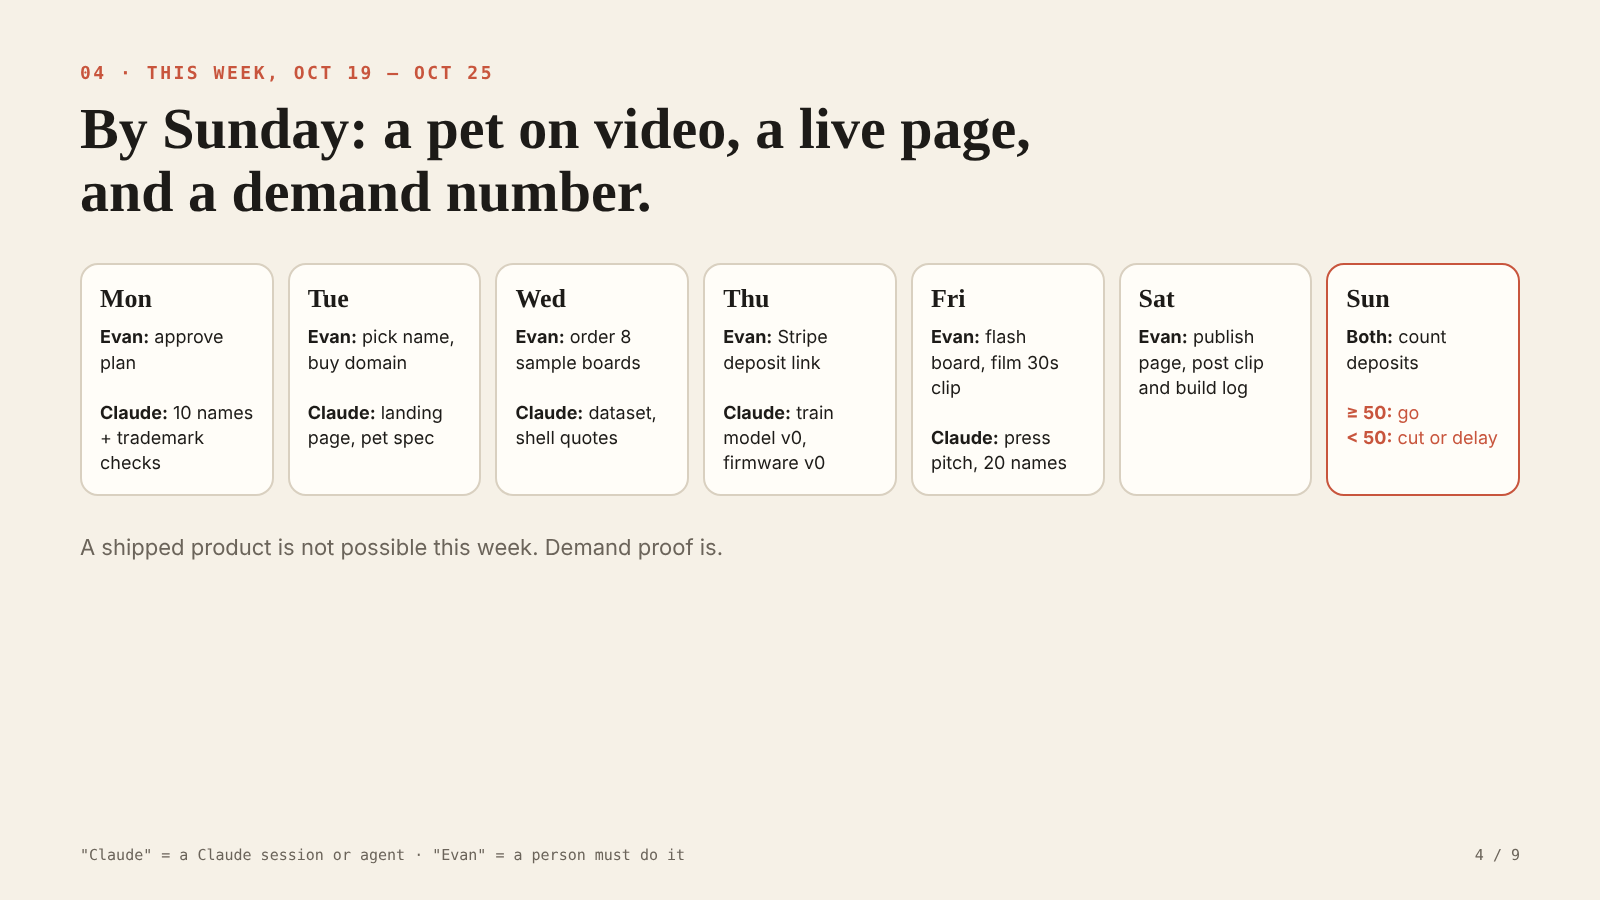
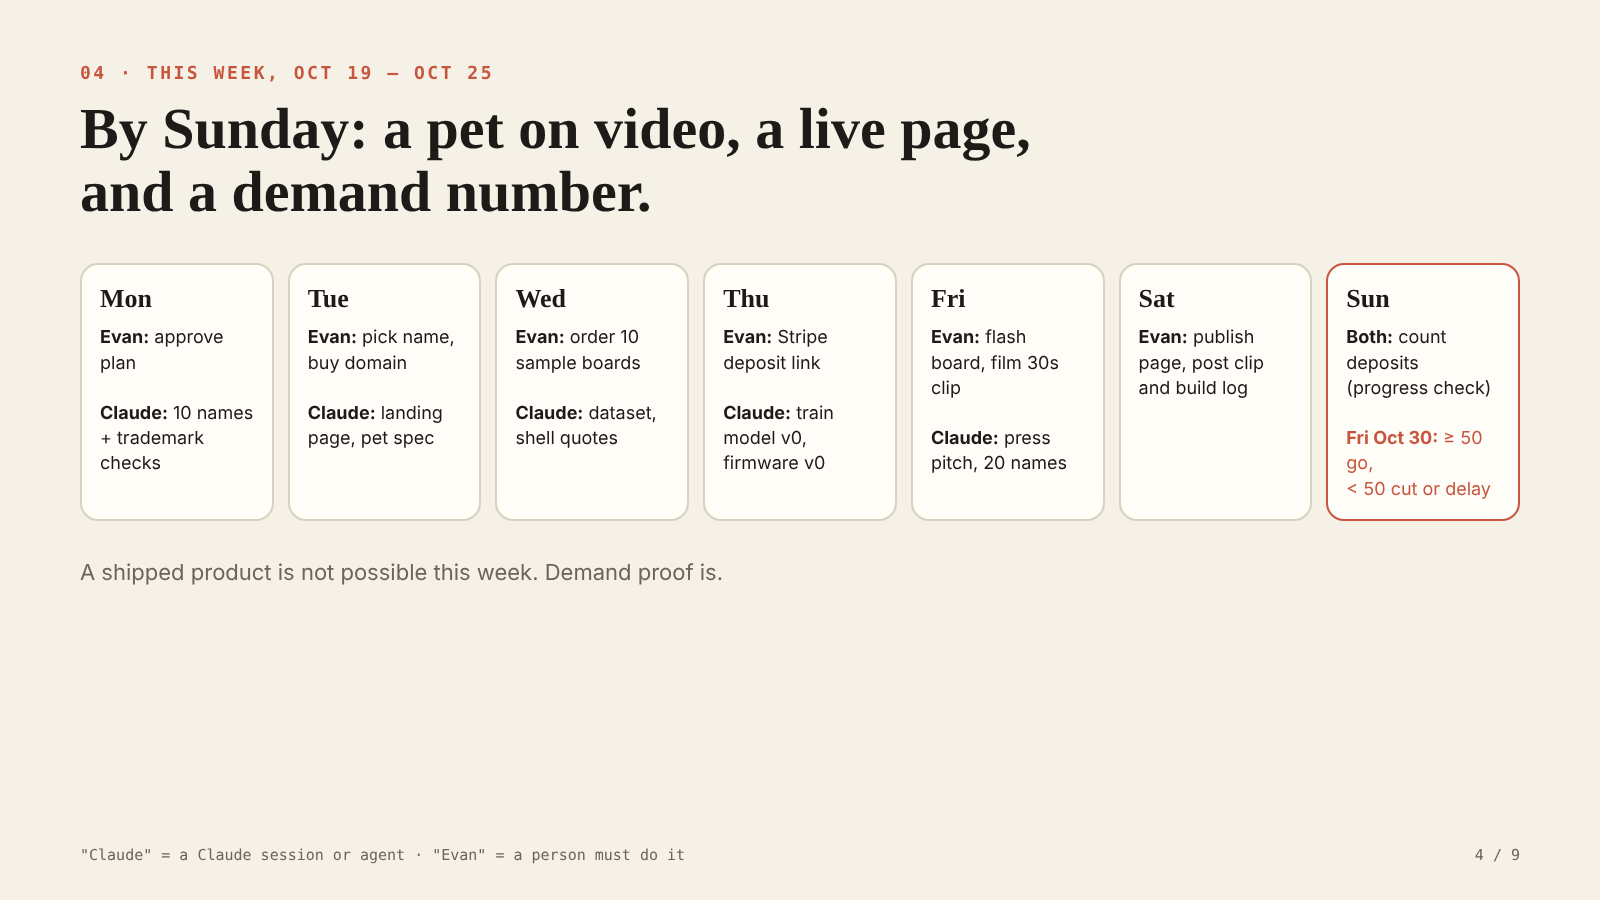
Companion-egg slides match the corrected plan; Bridge baseline rescored with early = 90
Third Codex review.
- slides.html and the four affected PNGs (02, 03, 04, 05), re-rendered from
  the source with Chromium at 1600 x 900; the five unchanged slides render
  byte-identical, so the renderer matches the originals. The slides now say:
  ring or buttons by the Oct 21 board choice; Developer Edition 50 inside the
  300; 10 sample boards; 5 working units at the Week 2 gate; order the batch
  only when preorder cash covers it plus 10%; Sunday is a progress check and
  the go/no-go is Fri Oct 30.
- First report and ledger: Bridge's stage factor was 75 for "early" while
  scoring.md maps early to 90; rescored to 90, total 62 -> 64 (still WATCH),
  so the first automated rerun does not report a spurious +2.

Claude-Session: https://claude.ai/code/session_01WCwHec3RfYx2cWkF2WjMXJ

diff --git a/docs/plans/companion-egg-images/slides.html b/docs/plans/companion-egg-images/slides.html
@@ -76,14 +76,14 @@ td{padding:10px 8px;border-bottom:1px solid var(--line);font-size:20px;vertical-
         <tr><td style="width:240px"><b>Brain</b></td><td>A tiny language model (5–15M parameters) on a $20 ESP32-S3 chip</td></tr>
         <tr><td><b>Privacy</b></td><td>No microphone. No cloud. No account. Works forever.</td></tr>
         <tr><td><b>Buyer</b></td><td>Adults 32–45 who had a virtual pet in 1997. No children in 2026.</td></tr>
-        <tr><td><b>Price</b></td><td>$129 Founders Edition · $99 gift box · $149 Developer Edition</td></tr>
+        <tr><td><b>Price</b></td><td>$129 Founders Edition · $99 gift box · $149 Developer Edition (50, inside the 300)</td></tr>
         <tr><td><b>Refills</b></td><td>$12 species packs (the "sticker paper" of this product)</td></tr>
         <tr><td><b>Open</b></td><td>Model, firmware, case files on Hugging Face and GitHub</td></tr>
         <tr><td><b>Closed</b></td><td>Name, characters, species packs. This is what a buyer buys.</td></tr>
       </table>
     </div>
   </div>
-  <div class="foot"><span>Concept only · round pebble with a ring, not an egg with three buttons (avoids Bandai trade dress)</span><span>2 / 9</span></div>
+  <div class="foot"><span>Concept only · ring or buttons, decided by the Oct 21 board choice; never an egg with three buttons (avoids Bandai trade dress)</span><span>2 / 9</span></div>
 </section>
 
 <!-- 3 -->
@@ -96,9 +96,9 @@ td{padding:10px 8px;border-bottom:1px solid var(--line);font-size:20px;vertical-
       <!-- x positions by day from Oct 19 (0) to Dec 25 (67): x = 30 + d*20.6 -->
       <g transform="translate(30,0)"><circle cy="280" r="16" fill="#c8553d"/><text y="230" text-anchor="start" font-size="22" font-weight="700">Oct 19–25</text><text y="200" font-size="18" fill="#6b645a">THIS WEEK</text><text y="340" font-size="19">Prototype, name,</text><text y="364" font-size="19">deposit page</text><text y="396" font-size="18" fill="#c8553d" font-family="monospace">Gate: 50 deposits</text></g>
       <g transform="translate(236,0)"><circle cy="280" r="12" fill="#e8a33a"/><text y="230" text-anchor="middle" font-size="22" font-weight="700">Nov 1</text><text y="440" text-anchor="middle" font-size="19">Model on chip</text><text y="464" text-anchor="middle" font-size="18" fill="#6b645a" font-family="monospace">≥ 8 tokens/s</text></g>
-      <g transform="translate(380,0)"><circle cy="280" r="12" fill="#e8a33a"/><text y="230" text-anchor="middle" font-size="22" font-weight="700">Nov 8</text><text y="340" text-anchor="middle" font-size="19">10 working units</text><text y="364" text-anchor="middle" font-size="18" fill="#6b645a" font-family="monospace">48-hr battery</text></g>
+      <g transform="translate(380,0)"><circle cy="280" r="12" fill="#e8a33a"/><text y="230" text-anchor="middle" font-size="22" font-weight="700">Nov 8</text><text y="340" text-anchor="middle" font-size="19">5 working units</text><text y="364" text-anchor="middle" font-size="18" fill="#6b645a" font-family="monospace">48-hr battery</text></g>
       <g transform="translate(524,0)"><circle cy="280" r="16" fill="#2f7f7a"/><text y="230" text-anchor="middle" font-size="22" font-weight="700">Nov 9</text><text y="440" text-anchor="middle" font-size="19">Preorders open</text><text y="464" text-anchor="middle" font-size="18" fill="#6b645a" font-family="monospace">$129</text></g>
-      <g transform="translate(689,0)"><circle cy="280" r="12" fill="#e8a33a"/><text y="230" text-anchor="middle" font-size="22" font-weight="700">Nov 15</text><text y="340" text-anchor="middle" font-size="19">Order 300 kits</text><text y="364" text-anchor="middle" font-size="18" fill="#6b645a" font-family="monospace">if 60% paid</text></g>
+      <g transform="translate(689,0)"><circle cy="280" r="12" fill="#e8a33a"/><text y="230" text-anchor="middle" font-size="22" font-weight="700">Nov 15</text><text y="340" text-anchor="middle" font-size="19">Order 300 kits</text><text y="364" text-anchor="middle" font-size="18" fill="#6b645a" font-family="monospace">if fully funded</text></g>
       <g transform="translate(854,0)"><circle cy="280" r="12" fill="#6c5ba7"/><text y="230" text-anchor="middle" font-size="22" font-weight="700">Nov 22</text><text y="440" text-anchor="middle" font-size="19">Anniversary week</text><text y="464" text-anchor="middle" font-size="18" fill="#6b645a" font-family="monospace">firmware freeze</text></g>
       <g transform="translate(957,0)"><circle cy="280" r="16" fill="#2f7f7a"/><text y="200" text-anchor="middle" font-size="22" font-weight="700">Nov 27</text><text y="340" text-anchor="middle" font-size="19">Black Friday</text></g>
       <g transform="translate(1101,0)"><circle cy="280" r="12" fill="#e8a33a"/><text y="230" text-anchor="middle" font-size="22" font-weight="700">Dec 6</text><text y="440" text-anchor="middle" font-size="19">Assembly done</text><text y="464" text-anchor="middle" font-size="18" fill="#6b645a" font-family="monospace">QA fail &lt; 3%</text></g>
@@ -116,11 +116,11 @@ td{padding:10px 8px;border-bottom:1px solid var(--line);font-size:20px;vertical-
   <div class="row" style="margin-top:40px;gap:14px">
     <div class="card" style="flex:1;padding:18px"><h2>Mon</h2><p style="font-size:18px;margin-top:10px"><b>Evan:</b> approve plan<br><br><b>Claude:</b> 10 names + trademark checks</p></div>
     <div class="card" style="flex:1;padding:18px"><h2>Tue</h2><p style="font-size:18px;margin-top:10px"><b>Evan:</b> pick name, buy domain<br><br><b>Claude:</b> landing page, pet spec</p></div>
-    <div class="card" style="flex:1;padding:18px"><h2>Wed</h2><p style="font-size:18px;margin-top:10px"><b>Evan:</b> order 8 sample boards<br><br><b>Claude:</b> dataset, shell quotes</p></div>
+    <div class="card" style="flex:1;padding:18px"><h2>Wed</h2><p style="font-size:18px;margin-top:10px"><b>Evan:</b> order 10 sample boards<br><br><b>Claude:</b> dataset, shell quotes</p></div>
     <div class="card" style="flex:1;padding:18px"><h2>Thu</h2><p style="font-size:18px;margin-top:10px"><b>Evan:</b> Stripe deposit link<br><br><b>Claude:</b> train model v0, firmware v0</p></div>
     <div class="card" style="flex:1;padding:18px"><h2>Fri</h2><p style="font-size:18px;margin-top:10px"><b>Evan:</b> flash board, film 30s clip<br><br><b>Claude:</b> press pitch, 20 names</p></div>
     <div class="card" style="flex:1;padding:18px"><h2>Sat</h2><p style="font-size:18px;margin-top:10px"><b>Evan:</b> publish page, post clip and build log</p></div>
-    <div class="card" style="flex:1;padding:18px;border-color:var(--rose)"><h2>Sun</h2><p style="font-size:18px;margin-top:10px"><b>Both:</b> count deposits<br><br><span style="color:var(--rose)"><b>≥ 50:</b> go<br><b>&lt; 50:</b> cut or delay</span></p></div>
+    <div class="card" style="flex:1;padding:18px;border-color:var(--rose)"><h2>Sun</h2><p style="font-size:18px;margin-top:10px"><b>Both:</b> count deposits (progress check)<br><br><span style="color:var(--rose)"><b>Fri Oct 30:</b> ≥ 50 go,<br>&lt; 50 cut or delay</span></p></div>
   </div>
   <p class="mute" style="margin-top:36px">A shipped product is not possible this week. Demand proof is.</p>
   <div class="foot"><span>"Claude" = a Claude session or agent · "Evan" = a person must do it</span><span>4 / 9</span></div>
@@ -143,7 +143,7 @@ td{padding:10px 8px;border-bottom:1px solid var(--line);font-size:20px;vertical-
   </div>
   <div class="row" style="margin-top:50px">
     <div class="card" style="flex:1"><div class="mono mute">BEFORE THE BATCH</div><div class="big" style="font-size:52px;margin:12px 0">$2,000</div><p>samples, case prints, model training, page, trademark search</p></div>
-    <div class="card" style="flex:1"><div class="mono mute">THE BATCH (300 units)</div><div class="big" style="font-size:52px;margin:12px 0">$15,000</div><p>paid from preorder cash. Order only when preorders cover 60%.</p></div>
+    <div class="card" style="flex:1"><div class="mono mute">THE BATCH (300 units)</div><div class="big" style="font-size:52px;margin:12px 0">$15,000</div><p>paid from preorder cash. Order only when preorder cash covers it plus 10%.</p></div>
     <div class="card" style="flex:1;border-color:var(--teal)"><div class="mono mute">THE REAL PRIZE</div><div class="big" style="font-size:52px;margin:12px 0">300</div><p>paying buyers on a list, and a first sell-out to show a buyer</p></div>
   </div>
   <div class="foot"><span>All costs are estimates. Get three quotes by Oct 23.</span><span>5 / 9</span></div>

diff --git a/docs/zeitgeist/reports/2026-10-19.html b/docs/zeitgeist/reports/2026-10-19.html
@@ -97,7 +97,7 @@ footer{border-top:1px solid var(--rule);padding-top:20px;font-size:.85rem;color:
       <tr><td>90s toy nostalgia (Tamagotchi at 30)</td><td>B</td><td>rising</td><td class="num">65<span class="bar" style="width:65px"></span></td><td><span class="chip WATCH">WATCH</span></td><td class="f">70 · 70 · 75 · 60 · 50 · 50</td></tr>
       <tr><td>Adult Pokemon TCG</td><td>B</td><td>peak</td><td class="num">64<span class="bar" style="width:64px"></span></td><td><span class="chip WATCH">WATCH</span></td><td class="f">85 · 35 · 75 · 75 · 55 · 25</td></tr>
       <tr><td>Rummikub and Mexican Train</td><td>A</td><td>steady</td><td class="num">63<span class="bar" style="width:63px"></span></td><td><span class="chip WATCH">WATCH</span></td><td class="f">45 · 50 · 80 · 95 · 65 · 40</td></tr>
-      <tr><td>Bridge</td><td>A</td><td>early</td><td class="num">62<span class="bar" style="width:62px"></span></td><td><span class="chip WATCH">WATCH</span></td><td class="f">30 · 75 · 80 · 70 · 70 · 60</td></tr>
+      <tr><td>Bridge</td><td>A</td><td>early</td><td class="num">64<span class="bar" style="width:64px"></span></td><td><span class="chip WATCH">WATCH</span></td><td class="f">30 · 90 · 80 · 70 · 70 · 60</td></tr>
       <tr><td>Run clubs</td><td>B</td><td>peak</td><td class="num">59<span class="bar" style="width:59px"></span></td><td><span class="chip WATCH">WATCH</span></td><td class="f">70 · 35 · 80 · 70 · 45 · 25</td></tr>
     </tbody>
   </table>

diff --git a/agent-seed/zeitgeist/state/trend-ledger.md b/agent-seed/zeitgeist/state/trend-ledger.md
@@ -16,5 +16,5 @@
 | 90s toy nostalgia (Tamagotchi 30) | B | rising | 65 | WATCH | 2026-10-19 |  |
 | Adult Pokemon TCG | B | peak | 64 | WATCH | 2026-10-19 |  |
 | Rummikub and Mexican Train | A | steady | 63 | WATCH | 2026-10-19 |  |
-| Bridge | A | early | 62 | WATCH | 2026-10-19 |  |
+| Bridge | A | early | 64 | WATCH | 2026-10-19 |  |
 | Run clubs | B | peak | 59 | WATCH | 2026-10-19 |  |
